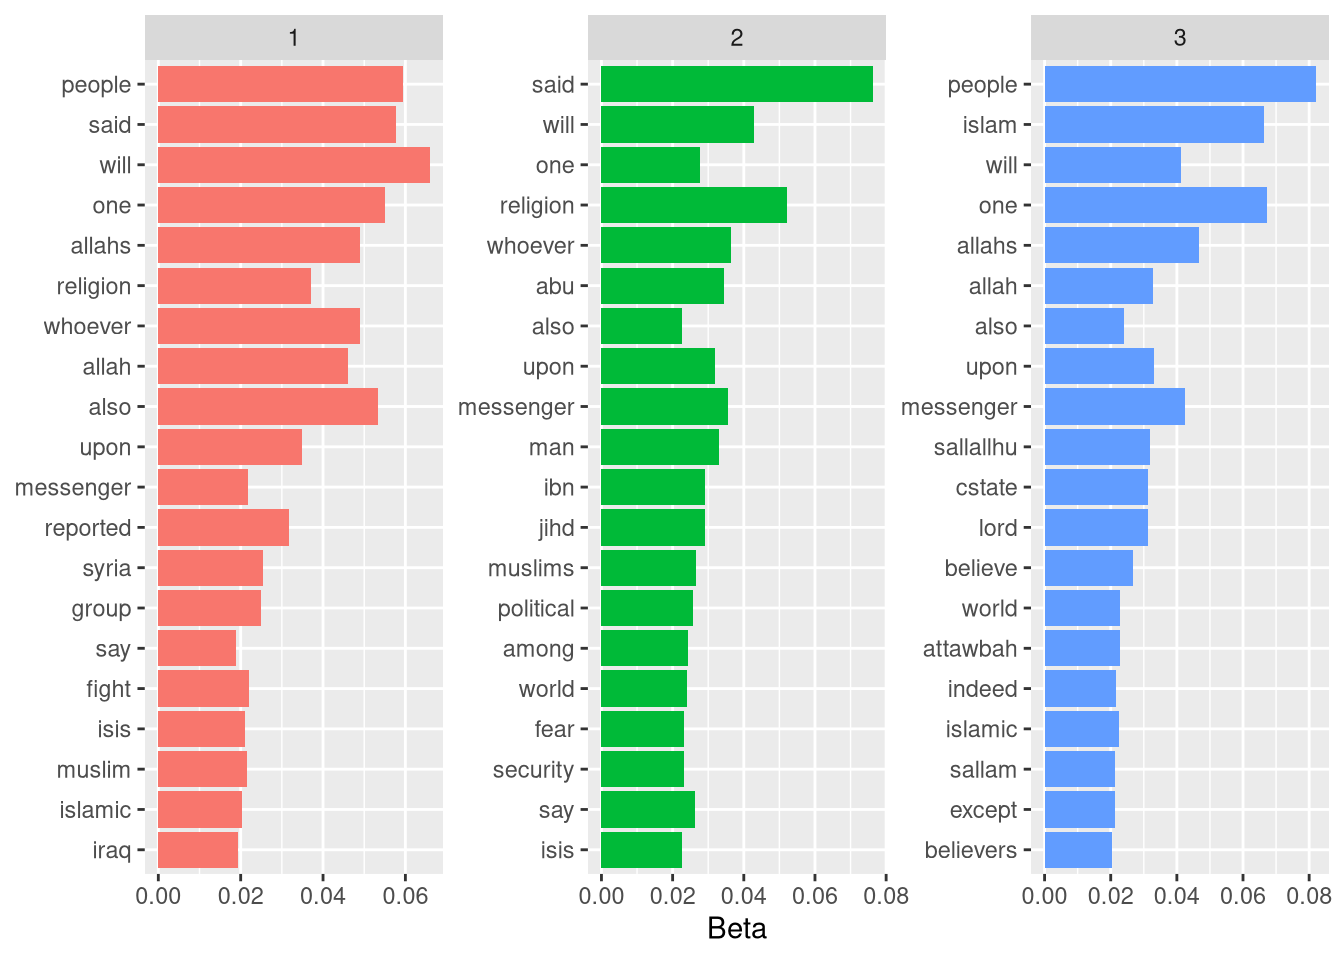
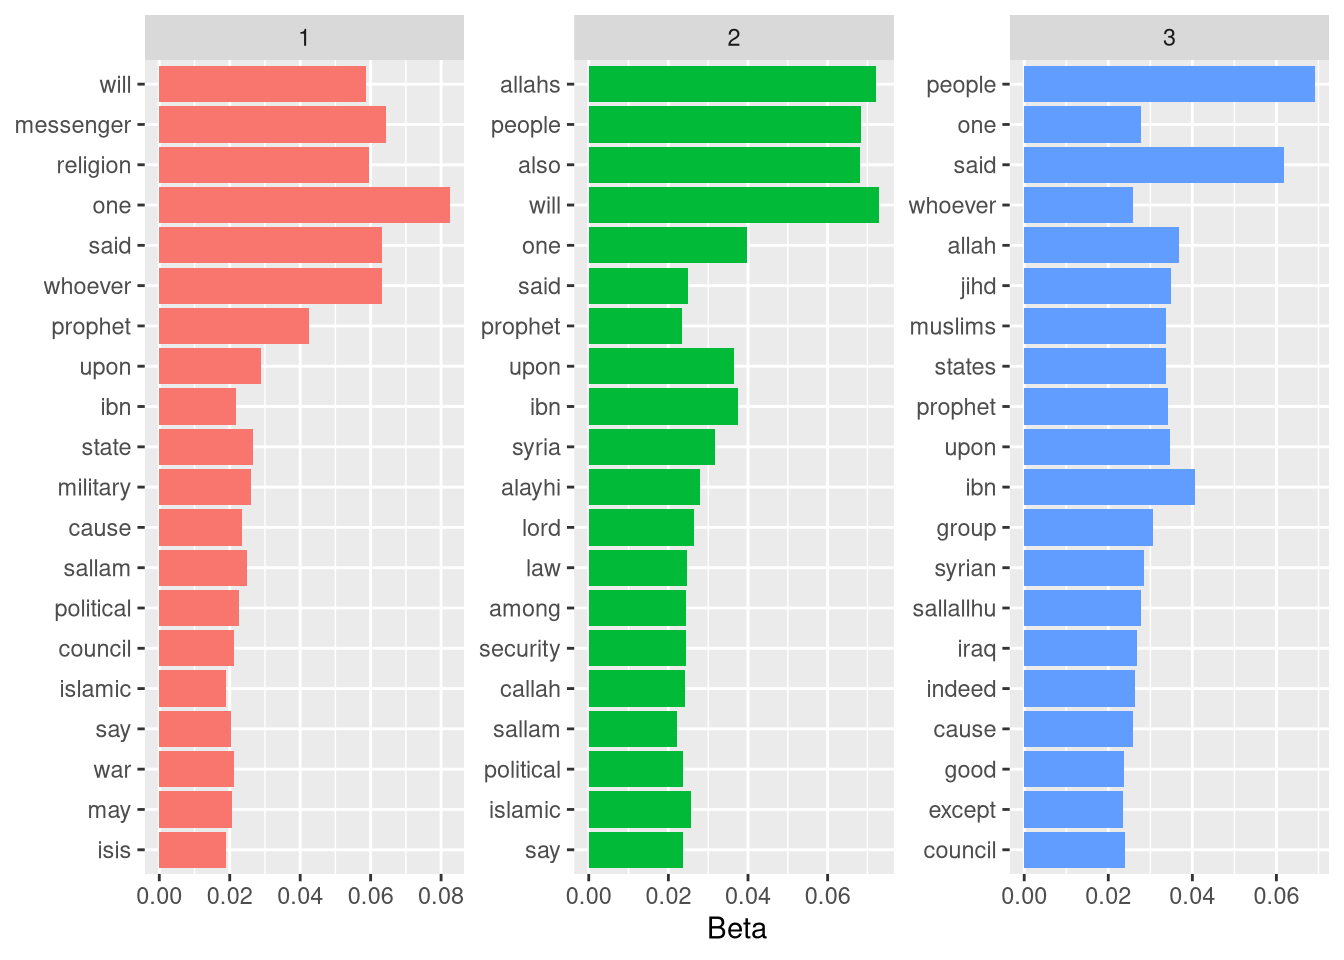
fix text

diff --git a/public/post/isis-nlp-analysis/index.html b/public/post/isis-nlp-analysis/index.html
@@ -49,7 +49,7 @@
 <meta itemprop="description" content="Nessa publicação aplico o modelo LDA em um dataset que contém artigos de revista utilizados pelo Estado Islâmico em sua propaganda política.">
 <meta itemprop="datePublished" content="2020-04-22T00:00:00&#43;00:00" />
 <meta itemprop="dateModified" content="2020-04-22T19:35:15-03:00" />
-<meta itemprop="wordCount" content="1440">
+<meta itemprop="wordCount" content="1459">
 
 
 
@@ -141,8 +141,8 @@
       
 
 
-<p>Nesse post nós iremos fazer uma simples (e rápida) análise do dataset “ISIS Religious Texts v1”, que pode ser encontrado <a href="AQUI">https://www.kaggle.com/fifthtribe/isis-religious-texts</a>. Essa base de dados contém textos de duas revistas do ISIS, estas sendo a “Dabiq” e a “Rumyiah”, que são (ou eram?) usadas para propaganda política e recrutamento de novos membros para o grupo terrorista.</p>
-<p>Primeiro começamos carregando as bibliotecas essenciais para a tarefa, com atenção à Rlang, que nos será bem util. Você pode conferir melhor suas funcionalidades nessa publicação <a href="AQUI%20(em%20inglês)">https://www.tidyverse.org/blog/2018/03/rlang-0.2.0/</a>, feita pelo time de desenvolvedores do Tidyverse.</p>
+<p>Nesse post nós iremos fazer uma simples (e rápida) análise do dataset “ISIS Religious Texts v1”, que pode ser encontrado (<a href="https://www.kaggle.com/fifthtribe/isis-religious-texts" class="uri">https://www.kaggle.com/fifthtribe/isis-religious-texts</a>)[AQUI]. Essa base de dados contém textos de duas revistas do ISIS, estas sendo a “Dabiq” e a “Rumyiah”, que são (ou eram?) usadas para propaganda política e recrutamento de novos membros para o grupo terrorista.</p>
+<p>Primeiro começamos carregando as bibliotecas essenciais para a tarefa, com atenção à Rlang, que nos será bem util. Você pode conferir melhor suas funcionalidades nessa publicação (<a href="https://www.tidyverse.org/blog/2018/03/rlang-0.2.0/" class="uri">https://www.tidyverse.org/blog/2018/03/rlang-0.2.0/</a>)[AQUI (em inglês)], feita pelo time de desenvolvedores do Tidyverse.</p>
 <pre class="r"><code>library(tidyverse) # É uma meta-biblioteca, isto é, uma bib. que contém outras bibliotecas.
 library(tm) # Text mining no geral, faz de tudo um pouco.
 library(topicmodels) # Para criar o modelo LDA.
@@ -151,7 +151,7 @@ library(SnowballC) # Para o stemming!
 library(magrittr) # NEW TOOLS!
 library(rlang)
 library(forcats)</code></pre>
-<p>Então vamos carregar os dados na memória, usando o <code>{readr}</code>, que já vem incluso na meta-biblioteca <code>{tidyverse}</code>. Contudo, para evitar problemas de compatibilidade de caracteres, visto que podemos ter texto em árabe, já me antecipo e altero o <a href="encoding">https://en.wikipedia.org/wiki/Character_encoding</a> da coluna que contém o texto para UTF-8, que é o ideal para as bibliotecas de análise de texto que serão usadas (especialmente a <code>{tm}</code>). Em diversas situações, podem ocorrer erros durante a análise devido ao texto estar no encoding errado, a alteração deste – embora tenha um motivo claro, e preventivo, neste dataset – pode ser útil em outros contextos também.</p>
+<p>Então vamos carregar os dados na memória, usando o <code>{readr}</code>, que já vem incluso na meta-biblioteca <code>{tidyverse}</code>. Contudo, para evitar problemas de compatibilidade de caracteres, visto que podemos ter texto em árabe, já me antecipo e altero o (<a href="https://en.wikipedia.org/wiki/Character_encoding" class="uri">https://en.wikipedia.org/wiki/Character_encoding</a>)[encoding] da coluna que contém o texto para UTF-8, que é o ideal para as bibliotecas de análise de texto que serão usadas (especialmente a <code>{tm}</code>). Em diversas situações, podem ocorrer erros durante a análise devido ao texto estar no encoding errado, a alteração deste – embora tenha um motivo claro, e preventivo, neste dataset – pode ser útil em outros contextos também.</p>
 <pre class="r"><code>dataset = readr::read_csv(&#39;../../data/ISIS Religious Texts v1.csv&#39;) # Carrega os dados
 
 dataset$Quote = iconv(dataset$Quote, &quot;ASCII&quot;, &quot;UTF-8&quot;, sub=&quot;byte&quot;) # Altera o encoding
@@ -174,7 +174,7 @@ head(dataset)</code></pre>
     stringr::str_replace_all(&quot;[[:punct:]]&quot;, &quot; &quot;) 
   text
 }</code></pre>
-<p>Mas calma… Você, pessoa bonita e atenta, poderia me chamar atenção ao fato de que existe a função <code>tm::map(removePunctuation)</code>, que ao passarmos no <a href="Corpus">https://en.wikipedia.org/wiki/Text_corpus</a> atinge o mesmo objetivo. Concordo, mas estava afim de brincar com o <code>rlang</code>, e também, a função também dá uma utilidade às <a href="expressões%20regulares,%20que%20vimos%20no%20post%20anterior">https://alphabetsigma.netlify.app/2020/03/17/introducao-as-expressoes-regulares/</a>.</p>
+<p>Mas calma… Você, pessoa bonita e atenta, poderia me chamar atenção ao fato de que existe a função <code>tm::map(removePunctuation)</code>, que ao passarmos no (<a href="https://en.wikipedia.org/wiki/Text_corpus" class="uri">https://en.wikipedia.org/wiki/Text_corpus</a>)[Corpus] atinge o mesmo objetivo. Concordo, mas estava afim de brincar com o <code>rlang</code>, e também, a função também dá uma utilidade às (<a href="https://alphabetsigma.netlify.app/2020/03/17/introducao-as-expressoes-regulares/" class="uri">https://alphabetsigma.netlify.app/2020/03/17/introducao-as-expressoes-regulares/</a>)[expressões regulares, que vimos no post anterior].</p>
 <pre class="r"><code>treat = function(data, texto_col= Quote){
   
  data %&gt;%
@@ -183,9 +183,9 @@ head(dataset)</code></pre>
   
   data_res
 }</code></pre>
-<p>A sintaxe da função acima pode ser um pouco nova para alguns, os operadores <code>{{ }}</code> (lê-se Curly-Curly) e <code>:=</code> nos permitem utilizarmos os nomes das colunas dos dataframes como argumentos, sem precisarmos recorrer a construções de código obscuras, como é possível ver nesta <a href="publicação%20do%20Bruno%20Rodrigues,%20em%20seu%20blog">https://www.brodrigues.co/blog/2019-06-20-tidy_eval_saga/</a>.</p>
+<p>A sintaxe da função acima pode ser um pouco nova para alguns, os operadores <code>{{ }}</code> (lê-se Curly-Curly) e <code>:=</code> nos permitem utilizarmos os nomes das colunas dos dataframes como argumentos, sem precisarmos recorrer a construções de código obscuras, como é possível ver nesta (<a href="https://www.brodrigues.co/blog/2019-06-20-tidy_eval_saga/" class="uri">https://www.brodrigues.co/blog/2019-06-20-tidy_eval_saga/</a>)[publicação do Bruno Rodrigues, em seu blog].</p>
 <p>Mas, o que essa função faz é bem simples. A função aceita dois argumentos, <code>data</code> e <code>texto_col</code>, a primeira corresponde ao data.frame/tibble que contém os dados a serem tratados, a última corresponde ao nome da coluna qual está o texto desejado. Altera a coluna ‘Quote’, passando-a pela função <code>cleaner_impurities</code>, e então retorna ela como um <strong>vetor</strong>.</p>
-<p>Preste atenção ao fato de que a informação do nome da coluna não deve ser inserida como uma <code>'string'</code>, e sim como se fosse um <code>objeto</code>, <a href="caso%20contrário,%20teremos%20um%20resultado%20inesperado">https://stackoverflow.com/questions/61377657/tidy-evaluation-not-working-with-mutate-and-stringr</a>.</p>
+<p>Preste atenção ao fato de que a informação do nome da coluna não deve ser inserida como uma <code>'string'</code>, e sim como se fosse um <code>objeto</code>, (<a href="https://stackoverflow.com/questions/61377657/tidy-evaluation-not-working-with-mutate-and-stringr" class="uri">https://stackoverflow.com/questions/61377657/tidy-evaluation-not-working-with-mutate-and-stringr</a>)[caso contrário, teremos um resultado inesperado].</p>
 <pre class="r"><code>topTerms = function(text, n_topics=3){
   
    text %&gt;%
@@ -219,18 +219,18 @@ res = dataset %&gt;%
     
 res</code></pre>
 <pre><code>## # A tibble: 60 x 3
-##    topic term       beta
-##    &lt;int&gt; &lt;chr&gt;     &lt;dbl&gt;
-##  1     1 state   0.0106 
-##  2     1 islamic 0.0102 
-##  3     1 said    0.00744
-##  4     1 people  0.00719
-##  5     1 muslims 0.00669
-##  6     1 will    0.00571
-##  7     1 also    0.00512
-##  8     1 war     0.00458
-##  9     1 isis    0.00449
-## 10     1 syria   0.00440
+##    topic term         beta
+##    &lt;int&gt; &lt;chr&gt;       &lt;dbl&gt;
+##  1     1 allah     0.0500 
+##  2     1 said      0.0352 
+##  3     1 will      0.0205 
+##  4     1 messenger 0.0138 
+##  5     1 ibn       0.0133 
+##  6     1 indeed    0.0109 
+##  7     1 people    0.00999
+##  8     1 allahs    0.00875
+##  9     1 one       0.00780
+## 10     1 upon      0.00724
 ## # … with 50 more rows</code></pre>
 <p>O trecho acima é bem auto-explicativo, até mesmo devido aos comentários no código. Informações extras podem ser encontradas na documentação das funções.</p>
 <p>Vamos plotar as informações que conseguimos, assim é possível visualizarmos melhor o resultado.</p>

diff --git a/content/post/2020-04-22-escola-isis-de-radicalizacao-religiosa-uma-analise-com-nlp.html b/content/post/2020-04-22-escola-isis-de-radicalizacao-religiosa-uma-analise-com-nlp.html
@@ -14,8 +14,8 @@ Description: 'Nessa publicação aplico o modelo LDA em um dataset que contém a
 
 
 
-<p>Nesse post nós iremos fazer uma simples (e rápida) análise do dataset “ISIS Religious Texts v1”, que pode ser encontrado <a href="AQUI">https://www.kaggle.com/fifthtribe/isis-religious-texts</a>. Essa base de dados contém textos de duas revistas do ISIS, estas sendo a “Dabiq” e a “Rumyiah”, que são (ou eram?) usadas para propaganda política e recrutamento de novos membros para o grupo terrorista.</p>
-<p>Primeiro começamos carregando as bibliotecas essenciais para a tarefa, com atenção à Rlang, que nos será bem util. Você pode conferir melhor suas funcionalidades nessa publicação <a href="AQUI%20(em%20inglês)">https://www.tidyverse.org/blog/2018/03/rlang-0.2.0/</a>, feita pelo time de desenvolvedores do Tidyverse.</p>
+<p>Nesse post nós iremos fazer uma simples (e rápida) análise do dataset “ISIS Religious Texts v1”, que pode ser encontrado (<a href="https://www.kaggle.com/fifthtribe/isis-religious-texts" class="uri">https://www.kaggle.com/fifthtribe/isis-religious-texts</a>)[AQUI]. Essa base de dados contém textos de duas revistas do ISIS, estas sendo a “Dabiq” e a “Rumyiah”, que são (ou eram?) usadas para propaganda política e recrutamento de novos membros para o grupo terrorista.</p>
+<p>Primeiro começamos carregando as bibliotecas essenciais para a tarefa, com atenção à Rlang, que nos será bem util. Você pode conferir melhor suas funcionalidades nessa publicação (<a href="https://www.tidyverse.org/blog/2018/03/rlang-0.2.0/" class="uri">https://www.tidyverse.org/blog/2018/03/rlang-0.2.0/</a>)[AQUI (em inglês)], feita pelo time de desenvolvedores do Tidyverse.</p>
 <pre class="r"><code>library(tidyverse) # É uma meta-biblioteca, isto é, uma bib. que contém outras bibliotecas.
 library(tm) # Text mining no geral, faz de tudo um pouco.
 library(topicmodels) # Para criar o modelo LDA.
@@ -24,7 +24,7 @@ library(SnowballC) # Para o stemming!
 library(magrittr) # NEW TOOLS!
 library(rlang)
 library(forcats)</code></pre>
-<p>Então vamos carregar os dados na memória, usando o <code>{readr}</code>, que já vem incluso na meta-biblioteca <code>{tidyverse}</code>. Contudo, para evitar problemas de compatibilidade de caracteres, visto que podemos ter texto em árabe, já me antecipo e altero o <a href="encoding">https://en.wikipedia.org/wiki/Character_encoding</a> da coluna que contém o texto para UTF-8, que é o ideal para as bibliotecas de análise de texto que serão usadas (especialmente a <code>{tm}</code>). Em diversas situações, podem ocorrer erros durante a análise devido ao texto estar no encoding errado, a alteração deste – embora tenha um motivo claro, e preventivo, neste dataset – pode ser útil em outros contextos também.</p>
+<p>Então vamos carregar os dados na memória, usando o <code>{readr}</code>, que já vem incluso na meta-biblioteca <code>{tidyverse}</code>. Contudo, para evitar problemas de compatibilidade de caracteres, visto que podemos ter texto em árabe, já me antecipo e altero o (<a href="https://en.wikipedia.org/wiki/Character_encoding" class="uri">https://en.wikipedia.org/wiki/Character_encoding</a>)[encoding] da coluna que contém o texto para UTF-8, que é o ideal para as bibliotecas de análise de texto que serão usadas (especialmente a <code>{tm}</code>). Em diversas situações, podem ocorrer erros durante a análise devido ao texto estar no encoding errado, a alteração deste – embora tenha um motivo claro, e preventivo, neste dataset – pode ser útil em outros contextos também.</p>
 <pre class="r"><code>dataset = readr::read_csv(&#39;../../data/ISIS Religious Texts v1.csv&#39;) # Carrega os dados
 
 dataset$Quote = iconv(dataset$Quote, &quot;ASCII&quot;, &quot;UTF-8&quot;, sub=&quot;byte&quot;) # Altera o encoding
@@ -47,7 +47,7 @@ head(dataset)</code></pre>
     stringr::str_replace_all(&quot;[[:punct:]]&quot;, &quot; &quot;) 
   text
 }</code></pre>
-<p>Mas calma… Você, pessoa bonita e atenta, poderia me chamar atenção ao fato de que existe a função <code>tm::map(removePunctuation)</code>, que ao passarmos no <a href="Corpus">https://en.wikipedia.org/wiki/Text_corpus</a> atinge o mesmo objetivo. Concordo, mas estava afim de brincar com o <code>rlang</code>, e também, a função também dá uma utilidade às <a href="expressões%20regulares,%20que%20vimos%20no%20post%20anterior">https://alphabetsigma.netlify.app/2020/03/17/introducao-as-expressoes-regulares/</a>.</p>
+<p>Mas calma… Você, pessoa bonita e atenta, poderia me chamar atenção ao fato de que existe a função <code>tm::map(removePunctuation)</code>, que ao passarmos no (<a href="https://en.wikipedia.org/wiki/Text_corpus" class="uri">https://en.wikipedia.org/wiki/Text_corpus</a>)[Corpus] atinge o mesmo objetivo. Concordo, mas estava afim de brincar com o <code>rlang</code>, e também, a função também dá uma utilidade às (<a href="https://alphabetsigma.netlify.app/2020/03/17/introducao-as-expressoes-regulares/" class="uri">https://alphabetsigma.netlify.app/2020/03/17/introducao-as-expressoes-regulares/</a>)[expressões regulares, que vimos no post anterior].</p>
 <pre class="r"><code>treat = function(data, texto_col= Quote){
   
  data %&gt;%
@@ -56,9 +56,9 @@ head(dataset)</code></pre>
   
   data_res
 }</code></pre>
-<p>A sintaxe da função acima pode ser um pouco nova para alguns, os operadores <code>{{ }}</code> (lê-se Curly-Curly) e <code>:=</code> nos permitem utilizarmos os nomes das colunas dos dataframes como argumentos, sem precisarmos recorrer a construções de código obscuras, como é possível ver nesta <a href="publicação%20do%20Bruno%20Rodrigues,%20em%20seu%20blog">https://www.brodrigues.co/blog/2019-06-20-tidy_eval_saga/</a>.</p>
+<p>A sintaxe da função acima pode ser um pouco nova para alguns, os operadores <code>{{ }}</code> (lê-se Curly-Curly) e <code>:=</code> nos permitem utilizarmos os nomes das colunas dos dataframes como argumentos, sem precisarmos recorrer a construções de código obscuras, como é possível ver nesta (<a href="https://www.brodrigues.co/blog/2019-06-20-tidy_eval_saga/" class="uri">https://www.brodrigues.co/blog/2019-06-20-tidy_eval_saga/</a>)[publicação do Bruno Rodrigues, em seu blog].</p>
 <p>Mas, o que essa função faz é bem simples. A função aceita dois argumentos, <code>data</code> e <code>texto_col</code>, a primeira corresponde ao data.frame/tibble que contém os dados a serem tratados, a última corresponde ao nome da coluna qual está o texto desejado. Altera a coluna ‘Quote’, passando-a pela função <code>cleaner_impurities</code>, e então retorna ela como um <strong>vetor</strong>.</p>
-<p>Preste atenção ao fato de que a informação do nome da coluna não deve ser inserida como uma <code>'string'</code>, e sim como se fosse um <code>objeto</code>, <a href="caso%20contrário,%20teremos%20um%20resultado%20inesperado">https://stackoverflow.com/questions/61377657/tidy-evaluation-not-working-with-mutate-and-stringr</a>.</p>
+<p>Preste atenção ao fato de que a informação do nome da coluna não deve ser inserida como uma <code>'string'</code>, e sim como se fosse um <code>objeto</code>, (<a href="https://stackoverflow.com/questions/61377657/tidy-evaluation-not-working-with-mutate-and-stringr" class="uri">https://stackoverflow.com/questions/61377657/tidy-evaluation-not-working-with-mutate-and-stringr</a>)[caso contrário, teremos um resultado inesperado].</p>
 <pre class="r"><code>topTerms = function(text, n_topics=3){
   
    text %&gt;%
@@ -92,18 +92,18 @@ res = dataset %&gt;%
     
 res</code></pre>
 <pre><code>## # A tibble: 60 x 3
-##    topic term       beta
-##    &lt;int&gt; &lt;chr&gt;     &lt;dbl&gt;
-##  1     1 state   0.0106 
-##  2     1 islamic 0.0102 
-##  3     1 said    0.00744
-##  4     1 people  0.00719
-##  5     1 muslims 0.00669
-##  6     1 will    0.00571
-##  7     1 also    0.00512
-##  8     1 war     0.00458
-##  9     1 isis    0.00449
-## 10     1 syria   0.00440
+##    topic term         beta
+##    &lt;int&gt; &lt;chr&gt;       &lt;dbl&gt;
+##  1     1 allah     0.0500 
+##  2     1 said      0.0352 
+##  3     1 will      0.0205 
+##  4     1 messenger 0.0138 
+##  5     1 ibn       0.0133 
+##  6     1 indeed    0.0109 
+##  7     1 people    0.00999
+##  8     1 allahs    0.00875
+##  9     1 one       0.00780
+## 10     1 upon      0.00724
 ## # … with 50 more rows</code></pre>
 <p>O trecho acima é bem auto-explicativo, até mesmo devido aos comentários no código. Informações extras podem ser encontradas na documentação das funções.</p>
 <p>Vamos plotar as informações que conseguimos, assim é possível visualizarmos melhor o resultado.</p>

diff --git a/public/index.html b/public/index.html
@@ -125,7 +125,7 @@
   
   <div class="post-content">
     <div class="post-summary">
-      Nesse post nós iremos fazer uma simples (e rápida) análise do dataset “ISIS Religious Texts v1”, que pode ser encontrado https://www.kaggle.com/fifthtribe/isis-religious-texts. Essa base de dados contém textos de duas revistas do ISIS, estas sendo a “Dabiq” e a “Rumyiah”, que são (ou eram?) usadas para propaganda política e recrutamento de novos membros para o grupo terrorista.
+      Nesse post nós iremos fazer uma simples (e rápida) análise do dataset “ISIS Religious Texts v1”, que pode ser encontrado (https://www.kaggle.com/fifthtribe/isis-religious-texts)[AQUI]. Essa base de dados contém textos de duas revistas do ISIS, estas sendo a “Dabiq” e a “Rumyiah”, que são (ou eram?) usadas para propaganda política e recrutamento de novos membros para o grupo terrorista.
 Primeiro começamos carregando as bibliotecas essenciais para a tarefa, com atenção à Rlang, que nos será bem util.
     </div>
     <div class="read-more">
@@ -148,8 +148,7 @@ Primeiro começamos carregando as bibliotecas essenciais para a tarefa, com aten
   
   <div class="post-content">
     <div class="post-summary">
-      ATENÇÃO: Esse post possuirá 2 partes que serão publicadas em datas diferentes.
- São utilizadas: Strings e Funções do R-Base e do {Stringr}; Conhecimento prévio necessário.  Parte 1. One Reason Why Trabalhar com texto em uma linguagem tão centrada em números quanto o R é um desafio para muitos. A quantidade de desafios a serem enfrentados já é grande desde o inicio, a começar pela falta de materiais disponíveis, e que quando estão disponíveis na maioria das vezes estes possuem somente versões em inglês.
+      São utilizadas: Strings e Funções do R-Base e do {Stringr}; Conhecimento prévio necessário.  Parte 1. One Reason Why Trabalhar com texto em uma linguagem tão centrada em números quanto o R é um desafio para muitos. A quantidade de desafios a serem enfrentados já é grande desde o inicio, a começar pela falta de materiais disponíveis, e que quando estão disponíveis na maioria das vezes estes possuem somente versões em inglês.
     </div>
     <div class="read-more">
       <a href="/post/introducao-as-expressoes-regulares/" class="read-more-link">Read more...</a>

diff --git a/content/post/2020-03-17-introdução-às-expressões-regulares.html b/content/post/2020-03-17-introdução-às-expressões-regulares.html
@@ -26,7 +26,6 @@ highlight: yes
 
 
 
-<p><strong>ATENÇÃO: Esse post possuirá 2 partes que serão publicadas em datas diferentes.</strong></p>
 <ul>
 <li>São utilizadas: Strings e Funções do R-Base e do {Stringr}; Conhecimento prévio necessário.</li>
 </ul>
@@ -113,6 +112,7 @@ stringr::str_replace(string = frase, pattern = &quot;b\\w{3}s&quot;, replacement
 <p>Com isso, termino esse primeiro post, já confirmando que haverá uma continuação. Nela abordarei operações em data.frames e o uso de Expressões Regulares dentro de uma Pipeline do Tidyverse. A continuação será publicada no dia 20/03/2020, sexta-feira. Irei colocar o link abaixo assim que publicá-la.</p>
 <p>Abraços,
 Fiquem em casa, mantenham a quarentena!</p>
+<p><strong>ATENÇÃO: Esse post possuirá 2 partes que serão publicadas em datas diferentes.</strong></p>
 </div>
 </div>
 </div>

diff --git a/public/post/introducao-as-expressoes-regulares/index.html b/public/post/introducao-as-expressoes-regulares/index.html
@@ -140,7 +140,6 @@
       
 
 
-<p><strong>ATENÇÃO: Esse post possuirá 2 partes que serão publicadas em datas diferentes.</strong></p>
 <ul>
 <li>São utilizadas: Strings e Funções do R-Base e do {Stringr}; Conhecimento prévio necessário.</li>
 </ul>
@@ -227,6 +226,7 @@ stringr::str_replace(string = frase, pattern = &quot;b\\w{3}s&quot;, replacement
 <p>Com isso, termino esse primeiro post, já confirmando que haverá uma continuação. Nela abordarei operações em data.frames e o uso de Expressões Regulares dentro de uma Pipeline do Tidyverse. A continuação será publicada no dia 20/03/2020, sexta-feira. Irei colocar o link abaixo assim que publicá-la.</p>
 <p>Abraços,
 Fiquem em casa, mantenham a quarentena!</p>
+<p><strong>ATENÇÃO: Esse post possuirá 2 partes que serão publicadas em datas diferentes.</strong></p>
 </div>
 </div>
 </div>
